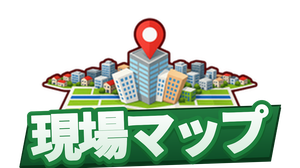
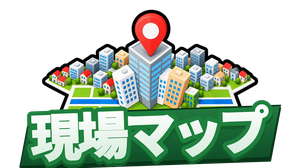
現場マップの絵を新しい絵に差し替え（メインアイコン・見出しの横）
Claude-Session: https://claude.ai/code/session_01SSqBungNj4wBMJYD7VEwk6

Changed region(s): [[0.12, 0.0595, 0.87, 0.6548]]

diff --git a/genba_map_v36.html b/genba_map_v36.html
@@ -575,7 +575,7 @@ textarea{font-size:16px !important;}
 <!-- ★2026-07-28 他ページと同じヘッダー帯に統一（旧 #topbar から <header> へ） -->
 <header id="topbar">
   <button class="new-btn nn-back nn-backimg" onclick="nnBack()" title="ひとつ前に戻る"><img src="./icons/btn_back.png?v=2026-09-07e" alt="戻る" onerror="var b=this.parentElement;b.classList.remove('nn-backimg');b.textContent='↩';"></button>
-  <span class="hicon"><img src="./icons/icon_map.png" alt="" onerror="this.parentElement.textContent='🗺'"></span>
+  <span class="hicon"><img src="./icons/icon_map.png?v=2026-10-26zb" alt="" onerror="this.parentElement.textContent='🗺'"></span>
   <h1><span class="nnTtl">現場マップ</span></h1>
   <span class="hco"><small>現場の場所と進み具合を地図で見る</small></span>
   <button class="new-btn" id="panelBtn" title="現場一覧を開く／閉じる">≡ 現場一覧</button>
@@ -4859,7 +4859,7 @@ function buildNav(){
   n.innerHTML=NAV.map(([k,l])=>{
     const suf=(k===NAV_ACTIVE)?'_on':'';
     return `<div class="ni ${k===NAV_ACTIVE?'on':''}" onclick="navGo('${k}','${l}')">
-      <span class="ic"><img src="./icons/nav_${k}${suf}.png?v=2026-10-26za" alt="${l}"
+      <span class="ic"><img src="./icons/nav_${k}${suf}.png?v=2026-10-26zb" alt="${l}"
         onload="this.closest('.ni').classList.add('hasimg')"
         onerror="if(!this.dataset.f){this.dataset.f=1;this.src='./icons/nav_${k}.png';}
                  else{this.outerHTML=ICONS['${k}']||'▫';}"></span><span>${l}</span></div>`;
@@ -5048,7 +5048,7 @@ nav, nav#nav{justify-content:center !important; padding-left:6px !important; pad
    古いものが出続けることがある。そこで ver.txt（数バイト）だけを
    毎回見に行き、公開版と違っていたら保存分を捨てて1回だけ読み直す。
    ★公開のたびに ver.txt と、下の NN_VER を同じ文字に更新すること。 */
-const NN_VER='2026-10-26za';
+const NN_VER='2026-10-26zb';
 /* ============ 表示にかかった時間の記録（原因調査用・2026-07-28） ============
    スマホの実機でどこに時間がかかっているかを数字で出す。
    ・net  ＝ページを要求してから最初の返事が来るまで（通信の待ち）

diff --git a/index.html b/index.html
@@ -422,7 +422,7 @@ nav, nav#nav{overflow:visible; padding-top:2px;}
 
 <!-- 版の表示：スマホに届いている中身がどれかを、お互いに確認するための小さな印。
      不要になったらこの1行と #nnver の指定を消してください。 -->
-<div id="nnver">v2026-10-26 za</div>
+<div id="nnver">v2026-10-26 zb</div>
 <script>
 /* ============ 実機の計測結果を表示（原因調査用・2026-07-28） ============
    数字の意味（単位はミリ秒）
@@ -522,7 +522,7 @@ function buildNav(){
   n.innerHTML=NAV.map(([k,l])=>{
     const suf=(k===NAV_ACTIVE)?'_on':'';
     return `<div class="ni ${k===NAV_ACTIVE?'on':''}" onclick="navGo('${k}','${l}')">
-      <span class="ic"><img src="./icons/nav_${k}${suf}.png?v=2026-10-26za" alt="${l}"
+      <span class="ic"><img src="./icons/nav_${k}${suf}.png?v=2026-10-26zb" alt="${l}"
         onload="this.closest('.ni').classList.add('hasimg')"
         onerror="if(!this.dataset.f){this.dataset.f=1;this.src='./icons/nav_${k}.png';}
                  else{this.outerHTML=ICONS['${k}']||'▫';}"></span><span>${l}</span></div>`;
@@ -775,7 +775,7 @@ nav, nav#nav{justify-content:center !important; padding-left:6px !important; pad
    古いものが出続けることがある。そこで ver.txt（数バイト）だけを
    毎回見に行き、公開版と違っていたら保存分を捨てて1回だけ読み直す。
    ★公開のたびに ver.txt と、下の NN_VER を同じ文字に更新すること。 */
-const NN_VER='2026-10-26za';
+const NN_VER='2026-10-26zb';
 /* ============ 表示にかかった時間の記録（原因調査用・2026-07-28） ============
    スマホの実機でどこに時間がかかっているかを数字で出す。
    ・net  ＝ページを要求してから最初の返事が来るまで（通信の待ち）

diff --git a/kokkosho.html b/kokkosho.html
@@ -1907,7 +1907,7 @@ function buildNav(){
   n.innerHTML=NAV.map(([k,l])=>{
     const suf=(k===NAV_ACTIVE)?'_on':'';
     return `<div class="ni ${k===NAV_ACTIVE?'on':''}" onclick="navGo('${k}','${l}')">
-      <span class="ic"><img src="./icons/nav_${k}${suf}.png?v=2026-10-26za" alt="${l}"
+      <span class="ic"><img src="./icons/nav_${k}${suf}.png?v=2026-10-26zb" alt="${l}"
         onload="this.closest('.ni').classList.add('hasimg')"
         onerror="if(!this.dataset.f){this.dataset.f=1;this.src='./icons/nav_${k}.png';}
                  else{this.outerHTML=NAV_ICONS['${k}']||'▫';}"></span><span>${l}</span></div>`;
@@ -2491,7 +2491,7 @@ nav, nav#nav{justify-content:center !important; padding-left:6px !important; pad
    古いものが出続けることがある。そこで ver.txt（数バイト）だけを
    毎回見に行き、公開版と違っていたら保存分を捨てて1回だけ読み直す。
    ★公開のたびに ver.txt と、下の NN_VER を同じ文字に更新すること。 */
-const NN_VER='2026-10-26za';
+const NN_VER='2026-10-26zb';
 /* ============ 表示にかかった時間の記録（原因調査用・2026-07-28） ============
    スマホの実機でどこに時間がかかっているかを数字で出す。
    ・net  ＝ページを要求してから最初の返事が来るまで（通信の待ち）

diff --git a/kirokucho_demo.html b/kirokucho_demo.html
@@ -3270,7 +3270,7 @@ function buildNav(){
   n.innerHTML=NAV.map(([k,l])=>{
     const suf=(k===NAV_ACTIVE)?'_on':'';
     return `<div class="ni ${k===NAV_ACTIVE?'on':''}" onclick="navGo('${k}','${l}')">
-      <span class="ic"><img src="./icons/nav_${k}${suf}.png?v=2026-10-26za" alt="${l}"
+      <span class="ic"><img src="./icons/nav_${k}${suf}.png?v=2026-10-26zb" alt="${l}"
         onload="this.closest('.ni').classList.add('hasimg')"
         onerror="if(!this.dataset.f){this.dataset.f=1;this.src='./icons/nav_${k}.png';}
                  else{this.outerHTML=ICONS['${k}']||'▫';}"></span><span>${l}</span></div>`;
@@ -4928,7 +4928,7 @@ nav, nav#nav{justify-content:center !important; padding-left:6px !important; pad
    古いものが出続けることがある。そこで ver.txt（数バイト）だけを
    毎回見に行き、公開版と違っていたら保存分を捨てて1回だけ読み直す。
    ★公開のたびに ver.txt と、下の NN_VER を同じ文字に更新すること。 */
-const NN_VER='2026-10-26za';
+const NN_VER='2026-10-26zb';
 /* ============ 表示にかかった時間の記録（原因調査用・2026-07-28） ============
    スマホの実機でどこに時間がかかっているかを数字で出す。
    ・net  ＝ページを要求してから最初の返事が来るまで（通信の待ち）

diff --git a/shiyo_toroku.html b/shiyo_toroku.html
@@ -1388,7 +1388,7 @@ function buildNav(){
   n.innerHTML=NAV.map(([k,l])=>{
     const suf=(k===NAV_ACTIVE)?'_on':'';
     return `<div class="ni ${k===NAV_ACTIVE?'on':''}" onclick="navGo('${k}','${l}')">
-      <span class="ic"><img src="./icons/nav_${k}${suf}.png?v=2026-10-26za" alt="${l}"
+      <span class="ic"><img src="./icons/nav_${k}${suf}.png?v=2026-10-26zb" alt="${l}"
         onload="this.closest('.ni').classList.add('hasimg')"
         onerror="if(!this.dataset.f){this.dataset.f=1;this.src='./icons/nav_${k}.png';}
                  else{this.outerHTML=ICONS['${k}']||'▫';}"></span><span>${l}</span></div>`;
@@ -1821,7 +1821,7 @@ nav, nav#nav{justify-content:center !important; padding-left:6px !important; pad
    古いものが出続けることがある。そこで ver.txt（数バイト）だけを
    毎回見に行き、公開版と違っていたら保存分を捨てて1回だけ読み直す。
    ★公開のたびに ver.txt と、下の NN_VER を同じ文字に更新すること。 */
-const NN_VER='2026-10-26za';
+const NN_VER='2026-10-26zb';
 /* ============ 表示にかかった時間の記録（原因調査用・2026-07-28） ============
    スマホの実機でどこに時間がかかっているかを数字で出す。
    ・net  ＝ページを要求してから最初の返事が来るまで（通信の待ち）

diff --git a/zairyo_toroku.html b/zairyo_toroku.html
@@ -1208,7 +1208,7 @@ function buildNav(){
   n.innerHTML=NAV.map(([k,l])=>{
     const suf=(k===NAV_ACTIVE)?'_on':'';
     return `<div class="ni ${k===NAV_ACTIVE?'on':''}" onclick="navGo('${k}','${l}')">
-      <span class="ic"><img src="./icons/nav_${k}${suf}.png?v=2026-10-26za" alt="${l}"
+      <span class="ic"><img src="./icons/nav_${k}${suf}.png?v=2026-10-26zb" alt="${l}"
         onload="this.closest('.ni').classList.add('hasimg')"
         onerror="if(!this.dataset.f){this.dataset.f=1;this.src='./icons/nav_${k}.png';}
                  else{this.outerHTML=ICONS['${k}']||'▫';}"></span><span>${l}</span></div>`;
@@ -1613,7 +1613,7 @@ nav, nav#nav{justify-content:center !important; padding-left:6px !important; pad
    古いものが出続けることがある。そこで ver.txt（数バイト）だけを
    毎回見に行き、公開版と違っていたら保存分を捨てて1回だけ読み直す。
    ★公開のたびに ver.txt と、下の NN_VER を同じ文字に更新すること。 */
-const NN_VER='2026-10-26za';
+const NN_VER='2026-10-26zb';
 /* ============ 表示にかかった時間の記録（原因調査用・2026-07-28） ============
    スマホの実機でどこに時間がかかっているかを数字で出す。
    ・net  ＝ページを要求してから最初の返事が来るまで（通信の待ち）

diff --git a/zumen_sekisan.html b/zumen_sekisan.html
@@ -5883,7 +5883,7 @@ function buildNav(){
   n.innerHTML=NAV.map(([k,l])=>{
     const suf=(k===NAV_ACTIVE)?'_on':'';
     return `<div class="ni ${k===NAV_ACTIVE?'on':''}" onclick="navGo('${k}','${l}')">
-      <span class="ic"><img src="./icons/nav_${k}${suf}.png?v=2026-10-26za" alt="${l}"
+      <span class="ic"><img src="./icons/nav_${k}${suf}.png?v=2026-10-26zb" alt="${l}"
         onload="this.closest('.ni').classList.add('hasimg')"
         onerror="if(!this.dataset.f){this.dataset.f=1;this.src='./icons/nav_${k}.png';}
                  else{this.outerHTML=ICONS['${k}']||'▫';}"></span><span>${l}</span></div>`;
@@ -6342,7 +6342,7 @@ nav, nav#nav{justify-content:center !important; padding-left:6px !important; pad
    古いものが出続けることがある。そこで ver.txt（数バイト）だけを
    毎回見に行き、公開版と違っていたら保存分を捨てて1回だけ読み直す。
    ★公開のたびに ver.txt と、下の NN_VER を同じ文字に更新すること。 */
-const NN_VER='2026-10-26za';
+const NN_VER='2026-10-26zb';
 /* ============ 表示にかかった時間の記録（原因調査用・2026-07-28） ============
    スマホの実機でどこに時間がかかっているかを数字で出す。
    ・net  ＝ページを要求してから最初の返事が来るまで（通信の待ち）

diff --git a/camera.html b/camera.html
@@ -334,7 +334,7 @@ function buildNav(){
   n.innerHTML=NAV.map(([k,l])=>{
     const suf=(k===NAV_ACTIVE)?'_on':'';
     return `<div class="ni ${k===NAV_ACTIVE?'on':''}" onclick="navGo('${k}','${l}')">
-      <span class="ic"><img src="./icons/nav_${k}${suf}.png?v=2026-10-26za" alt="${l}"
+      <span class="ic"><img src="./icons/nav_${k}${suf}.png?v=2026-10-26zb" alt="${l}"
         onload="this.closest('.ni').classList.add('hasimg')"
         onerror="if(!this.dataset.f){this.dataset.f=1;this.src='./icons/nav_${k}.png';}
                  else{this.outerHTML=ICONS['${k}']||'▫';}"></span><span>${l}</span></div>`;
@@ -1296,7 +1296,7 @@ nav, nav#nav{justify-content:center !important; padding-left:6px !important; pad
    古いものが出続けることがある。そこで ver.txt（数バイト）だけを
    毎回見に行き、公開版と違っていたら保存分を捨てて1回だけ読み直す。
    ★公開のたびに ver.txt と、下の NN_VER を同じ文字に更新すること。 */
-const NN_VER='2026-10-26za';
+const NN_VER='2026-10-26zb';
 /* ============ 表示にかかった時間の記録（原因調査用・2026-07-28） ============
    スマホの実機でどこに時間がかかっているかを数字で出す。
    ・net  ＝ページを要求してから最初の返事が来るまで（通信の待ち）

diff --git a/hacchu.html b/hacchu.html
@@ -378,7 +378,7 @@ function buildNav(){
   n.innerHTML=NAV.map(([k,l])=>{
     const suf=(k===NAV_ACTIVE)?'_on':'';
     return `<div class="ni ${k===NAV_ACTIVE?'on':''}" onclick="navGo('${k}','${l}')">
-      <span class="ic"><img src="./icons/nav_${k}${suf}.png?v=2026-10-26za" alt="${l}"
+      <span class="ic"><img src="./icons/nav_${k}${suf}.png?v=2026-10-26zb" alt="${l}"
         onload="this.closest('.ni').classList.add('hasimg')"
         onerror="if(!this.dataset.f){this.dataset.f=1;this.src='./icons/nav_${k}.png';}
                  else{this.outerHTML=ICONS['${k}']||'▫';}"></span><span>${l}</span></div>`;
@@ -1126,7 +1126,7 @@ nav, nav#nav{justify-content:center !important; padding-left:6px !important; pad
    古いものが出続けることがある。そこで ver.txt（数バイト）だけを
    毎回見に行き、公開版と違っていたら保存分を捨てて1回だけ読み直す。
    ★公開のたびに ver.txt と、下の NN_VER を同じ文字に更新すること。 */
-const NN_VER='2026-10-26za';
+const NN_VER='2026-10-26zb';
 /* ============ 表示にかかった時間の記録（原因調査用・2026-07-28） ============
    スマホの実機でどこに時間がかかっているかを数字で出す。
    ・net  ＝ページを要求してから最初の返事が来るまで（通信の待ち）

diff --git a/library.html b/library.html
@@ -417,7 +417,7 @@ function buildNav(){
   n.innerHTML=NAV.map(([k,l])=>{
     const suf=(k===NAV_ACTIVE)?'_on':'';
     return `<div class="ni ${k===NAV_ACTIVE?'on':''}" onclick="navGo('${k}','${l}')">
-      <span class="ic"><img src="./icons/nav_${k}${suf}.png?v=2026-10-26za" alt="${l}"
+      <span class="ic"><img src="./icons/nav_${k}${suf}.png?v=2026-10-26zb" alt="${l}"
         onload="this.closest('.ni').classList.add('hasimg')"
         onerror="if(!this.dataset.f){this.dataset.f=1;this.src='./icons/nav_${k}.png';}
                  else{this.outerHTML=ICONS['${k}']||'▫';}"></span><span>${l}</span></div>`;
@@ -1193,7 +1193,7 @@ nav, nav#nav{justify-content:center !important; padding-left:6px !important; pad
    古いものが出続けることがある。そこで ver.txt（数バイト）だけを
    毎回見に行き、公開版と違っていたら保存分を捨てて1回だけ読み直す。
    ★公開のたびに ver.txt と、下の NN_VER を同じ文字に更新すること。 */
-const NN_VER='2026-10-26za';
+const NN_VER='2026-10-26zb';
 /* ============ 表示にかかった時間の記録（原因調査用・2026-07-28） ============
    スマホの実機でどこに時間がかかっているかを数字で出す。
    ・net  ＝ページを要求してから最初の返事が来るまで（通信の待ち）

diff --git a/yougo.html b/yougo.html
@@ -317,7 +317,7 @@ function buildNav(){
   n.innerHTML=NAV.map(([k,l])=>{
     const suf=(k===NAV_ACTIVE)?'_on':'';
     return `<div class="ni ${k===NAV_ACTIVE?'on':''}" onclick="navGo('${k}','${l}')">
-      <span class="ic"><img src="./icons/nav_${k}${suf}.png?v=2026-10-26za" alt="${l}"
+      <span class="ic"><img src="./icons/nav_${k}${suf}.png?v=2026-10-26zb" alt="${l}"
         onload="this.closest('.ni').classList.add('hasimg')"
         onerror="if(!this.dataset.f){this.dataset.f=1;this.src='./icons/nav_${k}.png';}
                  else{this.outerHTML=ICONS['${k}']||'▫';}"></span><span>${l}</span></div>`;
@@ -1429,7 +1429,7 @@ nav, nav#nav{justify-content:center !important; padding-left:6px !important; pad
    古いものが出続けることがある。そこで ver.txt（数バイト）だけを
    毎回見に行き、公開版と違っていたら保存分を捨てて1回だけ読み直す。
    ★公開のたびに ver.txt と、下の NN_VER を同じ文字に更新すること。 */
-const NN_VER='2026-10-26za';
+const NN_VER='2026-10-26zb';
 /* ============ 表示にかかった時間の記録（原因調査用・2026-07-28） ============
    スマホの実機でどこに時間がかかっているかを数字で出す。
    ・net  ＝ページを要求してから最初の返事が来るまで（通信の待ち）

diff --git a/sw.js b/sw.js
@@ -11,7 +11,7 @@
      ので、こちらの修正が確実に端末へ届く。
      ★ページを直したら、必ずこの番号を1つ上げること。
    ============================================================ */
-const CACHE = 'nn-cache-v899';
+const CACHE = 'nn-cache-v900';
 
 const ASSETS = [
   './repair_takeoff.js',
